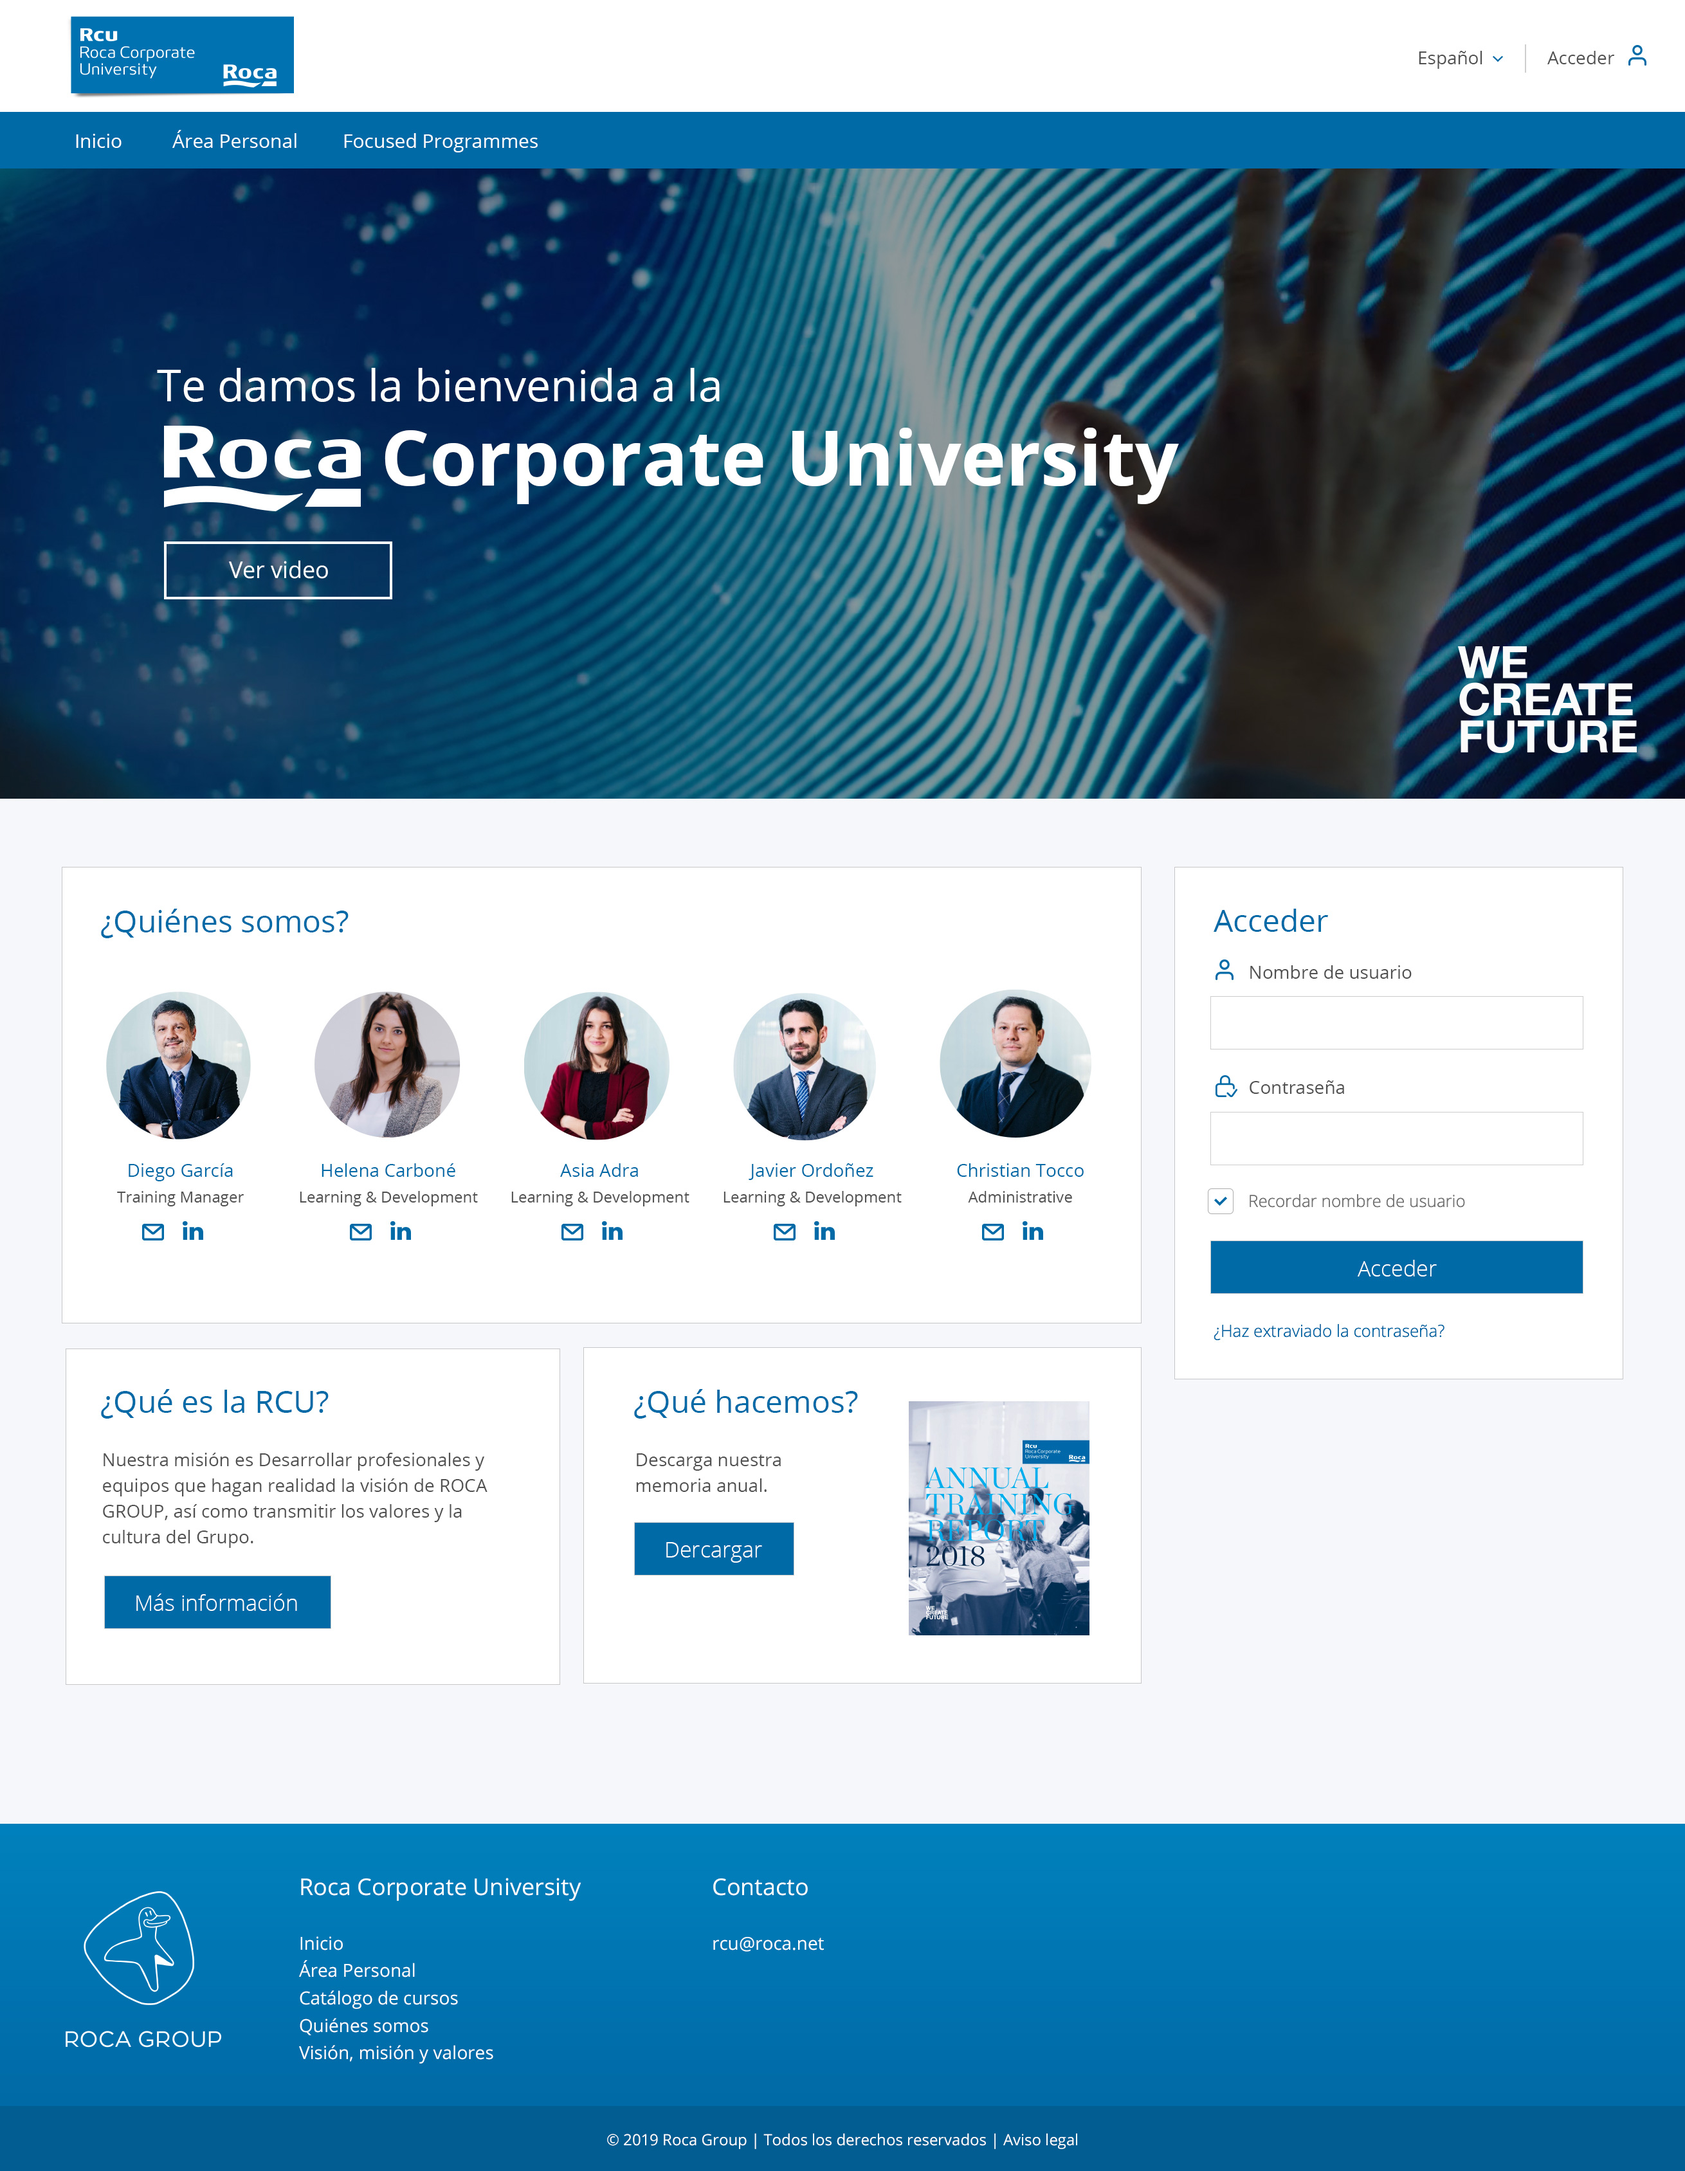
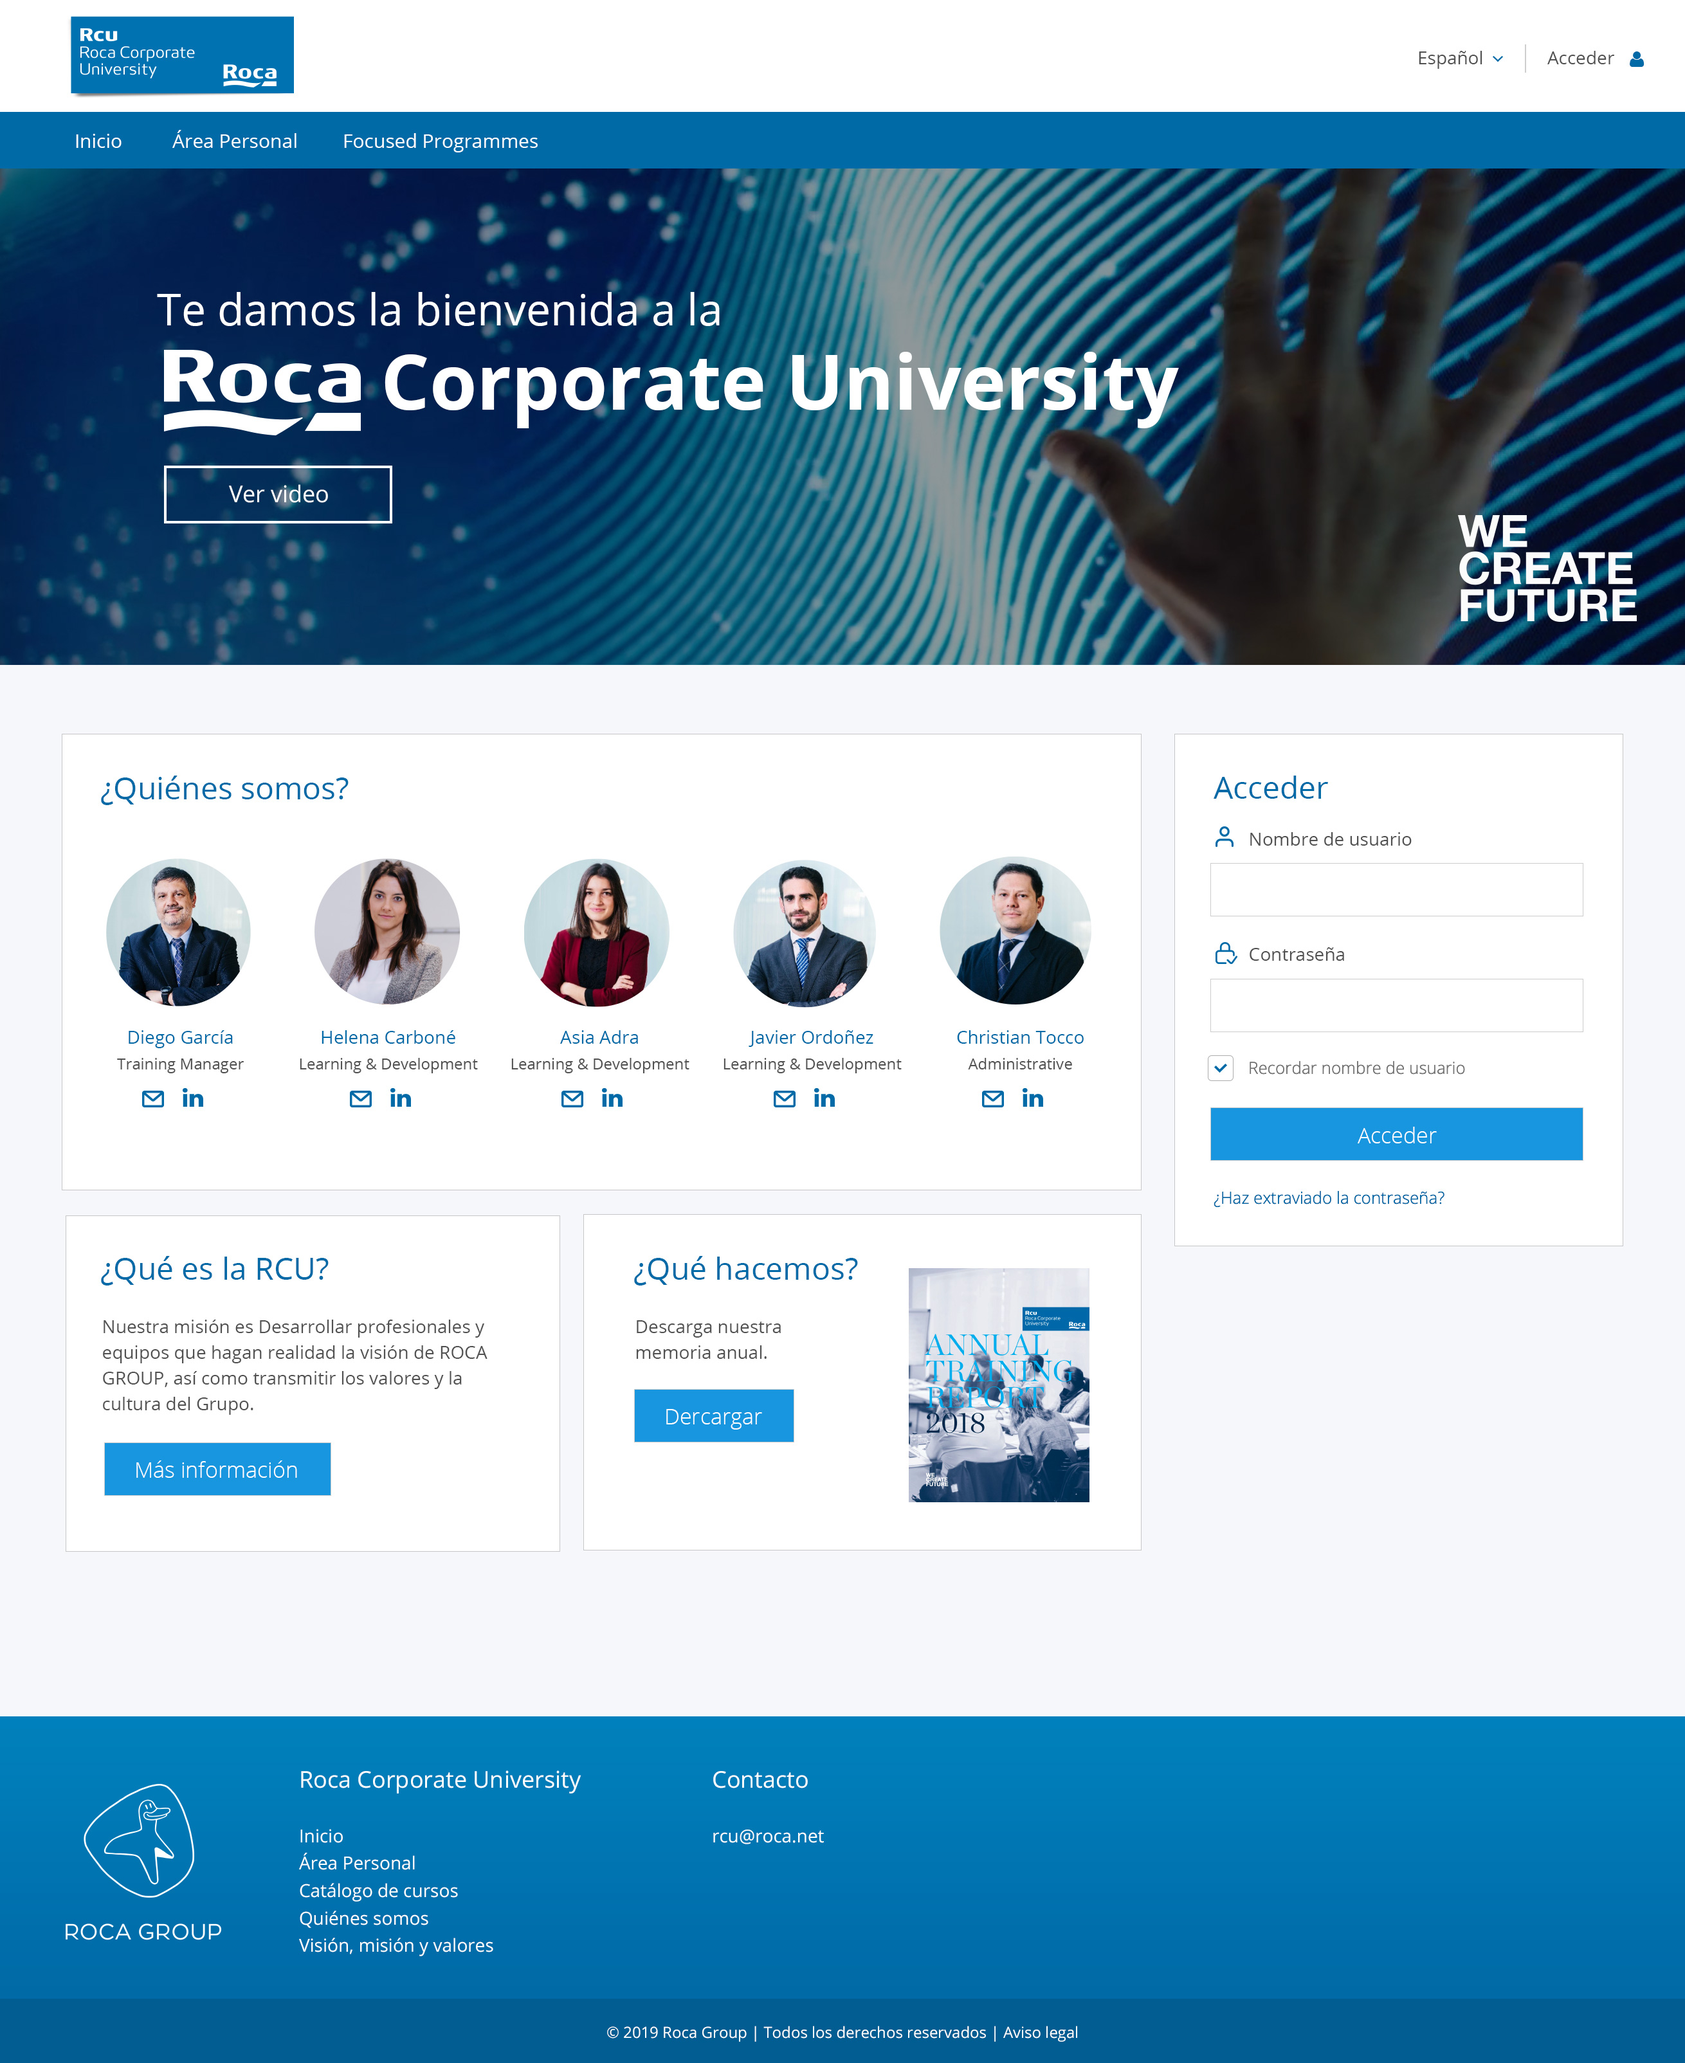
w1

diff --git a/Actua/Roca/1.html b/Actua/Roca/1.html
@@ -17,7 +17,7 @@ html, body {
 </style></head>
 
 <body   style="background-color: #f6f7fa;">
-  <img alt="full screen background image" src="jpg/1.jpg" id="full-screen-background-image" width="1310px" height="1688px" /> 
+  <img alt="full screen background image" src="jpg/1.jpg" id="full-screen-background-image" width="1310px" height="1604px" /> 
 </body>
 
 </html>

diff --git a/Actua/Roca/2.html b/Actua/Roca/2.html
@@ -17,7 +17,7 @@ html, body {
 </style></head>
 
 <body   style="background-color: #f6f7fa;">
-  <img alt="full screen background image" src="jpg/2.jpg" id="full-screen-background-image" width="1310px" height="1321px" /> 
+  <img alt="full screen background image" src="jpg/2.jpg" id="full-screen-background-image" width="1310px" height="1354px" /> 
 </body>
 
 </html>

diff --git a/Actua/Roca/4.html b/Actua/Roca/4.html
@@ -17,7 +17,7 @@ html, body {
 </style></head>
 
 <body   style="background-color: #f6f7fa;">
-  <img alt="full screen background image" src="jpg/3.jpg" id="full-screen-background-image" width="1310px" height="1354px" /> 
+  <img alt="full screen background image" src="jpg/4.jpg" id="full-screen-background-image" width="1310px" height="1354px" /> 
 </body>
 
 </html>

diff --git a/Actua/Roca/5.html b/Actua/Roca/5.html
@@ -17,7 +17,7 @@ html, body {
 </style></head>
 
 <body   style="background-color: #f6f7fa;">
-  <img alt="full screen background image" src="jpg/3.jpg" id="full-screen-background-image" width="1310px" height="1354px" /> 
+  <img alt="full screen background image" src="jpg/5.jpg" id="full-screen-background-image" width="1310px" height="1354px" /> 
 </body>
 
 </html>
